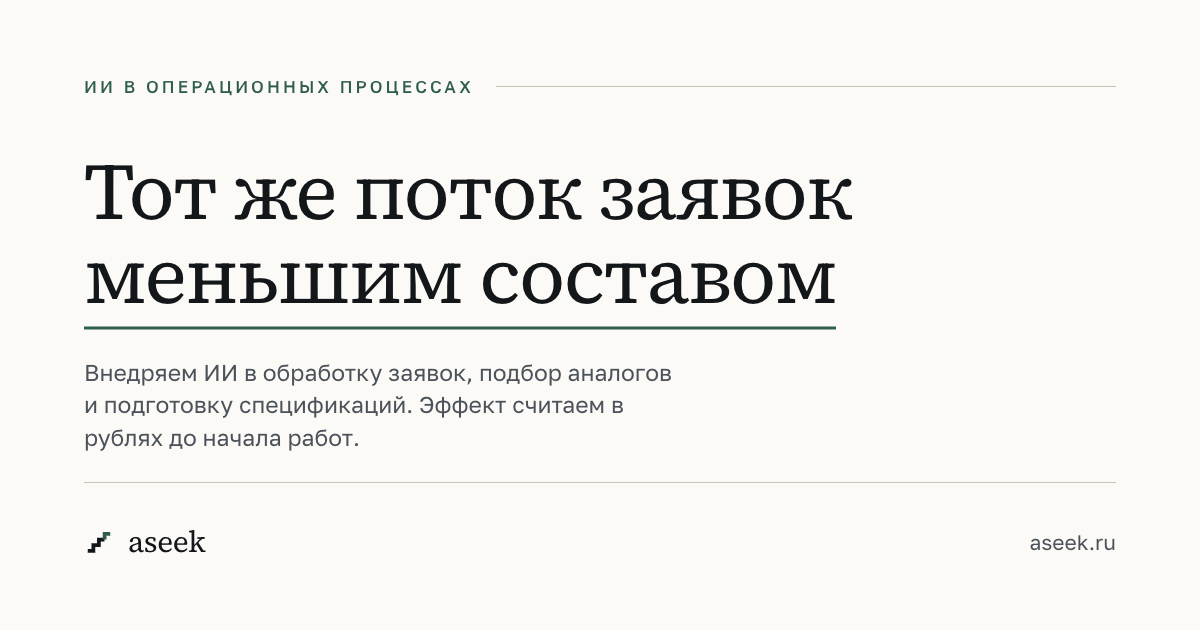
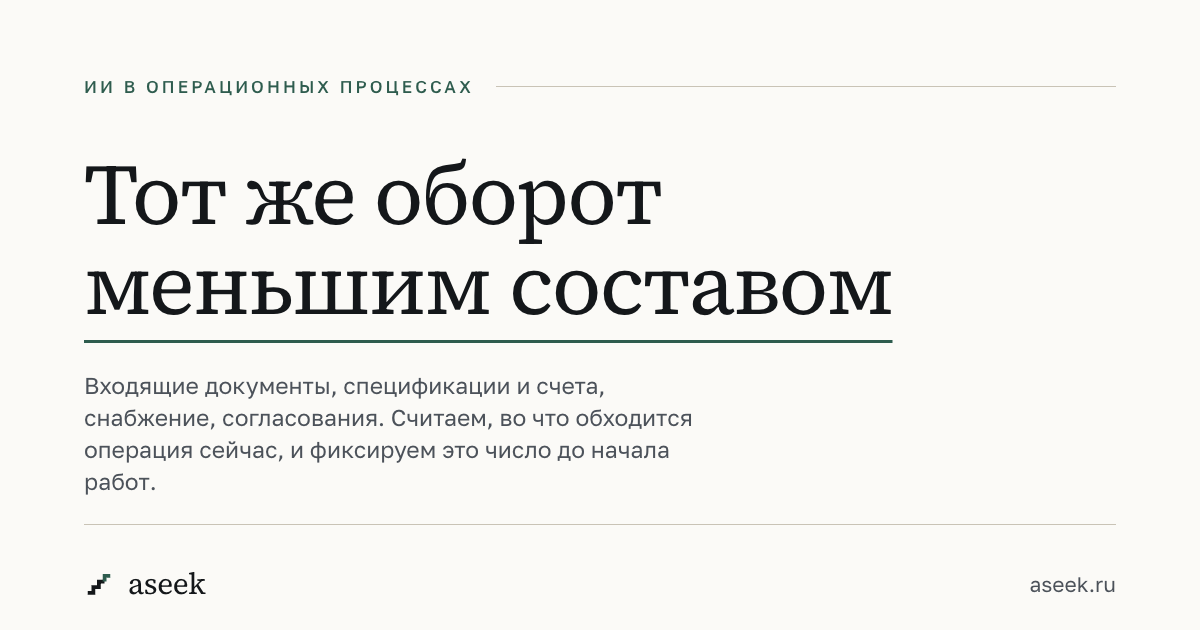
Снято обещание доступа в 1С, предмет расширен до операционных процессов
«Встраиваем в 1С» убрано: доступа в боевую учётную систему внешнему
подрядчику на первом проекте не дают, и обещание разваливается на первой
встрече. Работа названа там, где она есть, — на входе в учёт: почта,
мессенджеры, таблицы, CRM. Готовый документ принимает специалист заказчика
штатным обменом.

«Эффект считаем в рублях до начала работ» заменено на замер текущего
значения: прогноз до старта иногда будет мимо, замер по данным заказчика —
нет. Цель по-прежнему видна в отчёте по схеме «До / Сейчас / Цель».

Заголовок «Тот же поток заявок» → «Тот же оборот»: заявки это один участок,
операционные процессы шире. Перечисление под заголовком даёт конкретность.

«Не доходит до 1С» → «не заведена нигде: ни в CRM, ни в учёте».

og.png перерисован под новый заголовок.

diff --git a/index.html b/index.html
@@ -4,7 +4,7 @@
 <meta charset="utf-8" />
 <meta name="viewport" content="width=device-width, initial-scale=1" />
 <title>aseek — ИИ в операционных процессах</title>
-<meta name="description" content="Внедряем ИИ в обработку заявок, подбор аналогов и подготовку спецификаций. Встраиваем в 1С. Эффект считаем в рублях до начала работ. Диагностика от 600 000 ₽." />
+<meta name="description" content="Внедряем ИИ в операционные процессы: входящие документы, спецификации и счета, снабжение, согласования. Считаем, во что обходится операция сейчас, и фиксируем это число до начала работ. Диагностика от 600 000 ₽." />
 <meta name="color-scheme" content="light" />
 <link rel="icon" href="favicon.svg" type="image/svg+xml" />
 <link rel="icon" href="favicon.ico" sizes="32x32" />
@@ -16,8 +16,8 @@
 <meta property="og:locale" content="ru_RU" />
 <meta property="og:url" content="https://aseek.ru/" />
 <meta property="og:site_name" content="aseek" />
-<meta property="og:title" content="Тот же поток заявок меньшим составом" />
-<meta property="og:description" content="Внедряем ИИ в обработку заявок, подбор аналогов и подготовку спецификаций. Эффект считаем в рублях до начала работ — чтобы решение принималось по числам, а не по обещаниям." />
+<meta property="og:title" content="Тот же оборот меньшим составом" />
+<meta property="og:description" content="Внедряем ИИ в операционные процессы: входящие документы, спецификации и счета, снабжение, согласования. Считаем, во что обходится операция сейчас, и фиксируем это число до начала работ." />
 <meta property="og:image" content="https://aseek.ru/og.png" />
 <meta property="og:image:width" content="1200" />
 <meta property="og:image:height" content="630" />
@@ -143,14 +143,15 @@
           <p style="font-size: 12px; letter-spacing: 0.18em; text-transform: uppercase; color: #2E5C4E; white-space: nowrap;">ИИ в операционных процессах</p>
           <span data-reveal="line" style="display: block; flex: 1 1 auto; height: 1px; background: #C9C3B6;"></span>
         </div>
-        <h1 data-reveal style="font-size: clamp(36px, 7.4vw, 90px); line-height: 1.06; letter-spacing: -0.022em; max-width: 14em; text-wrap: pretty;">Тот же поток заявок <span style="position: relative; display: inline-block;">меньшим составом<span data-reveal="line" style="position: absolute; left: 0; right: 0; bottom: -0.06em; height: 2px; background: #2E5C4E;"></span></span></h1>
+        <h1 data-reveal style="font-size: clamp(36px, 7.4vw, 90px); line-height: 1.06; letter-spacing: -0.022em; max-width: 14em; text-wrap: pretty;">Тот же оборот <span style="position: relative; display: inline-block;">меньшим составом<span data-reveal="line" style="position: absolute; left: 0; right: 0; bottom: -0.06em; height: 2px; background: #2E5C4E;"></span></span></h1>
         <div style="display: flex; flex-wrap: wrap; gap: clamp(26px, 5vw, 88px); margin-top: clamp(34px, 6vw, 72px);">
           <div data-reveal style="flex: 5 1 320px; max-width: 31em;">
-            <p style="font-size: clamp(18px, 2.2vw, 25px); line-height: 1.44; letter-spacing: -0.005em; color: #232830; text-wrap: pretty;">Внедряем ИИ в обработку заявок, подбор аналогов и подготовку спецификаций. Встраиваем в 1С и в то, чем люди уже пользуются.</p>
-            <p style="margin-top: clamp(16px, 2.4vw, 24px); font-size: clamp(17px, 1.9vw, 20px); line-height: 1.47; color: #4C525A; text-wrap: pretty;">Эффект считаем в рублях до начала работ — чтобы решение принималось по числам, а не по обещаниям.</p>
+            <p style="font-size: clamp(18px, 2.2vw, 25px); line-height: 1.44; letter-spacing: -0.005em; color: #232830; text-wrap: pretty;">Внедряем ИИ в операционные процессы: разбор входящих документов, подготовка спецификаций и счетов, снабжение, согласования, переписка с клиентами.</p>
+            <p style="margin-top: clamp(16px, 2.4vw, 24px); font-size: clamp(17px, 1.9vw, 20px); line-height: 1.47; color: #4C525A; text-wrap: pretty;">Считаем, во что операция обходится сейчас, и фиксируем это число до начала работ. Дальше каждый месяц видно, куда оно сдвинулось.</p>
           </div>
           <div data-reveal style="flex: 2 1 230px; max-width: 22em; align-self: flex-end;">
-            <p style="font-size: 15px; line-height: 1.45; color: #4C525A; border-top: 1px solid #C9C3B6; padding-top: 14px;">Для оптовых, дистрибуторских и производственных компаний с потоком заявок и учётом в 1С.</p>
+            <p style="font-size: 15px; line-height: 1.45; color: #4C525A; border-top: 1px solid #C9C3B6; padding-top: 14px;">Для оптовых, дистрибуторских и производственных компаний с потоком заявок, документов и согласований.</p>
+            <p style="margin-top: 14px; font-size: 15px; line-height: 1.45; color: #4C525A;">Работаем на входе: почта, мессенджеры, таблицы, CRM. Переделывать учётную систему не требуется.</p>
             <p style="margin-top: 14px; font-size: 15px; line-height: 1.45; color: #4C525A;">С вами будет разговаривать тот, кто потом будет разбирать ваш процесс руками.</p>
           </div>
         </div>
@@ -203,11 +204,11 @@
         <li data-reveal data-pair style="display: grid; grid-template-columns: 1fr 1fr; gap: clamp(24px, 5vw, 72px); border-top: 1px solid #E4DFD4; padding-top: clamp(26px, 4vw, 44px);">
           <div>
             <p style="font-size: 11px; letter-spacing: 0.14em; text-transform: uppercase; color: #8A8578; margin-bottom: 12px;">Сегодня</p>
-            <p data-mobile-full style="max-width: 22em; font-size: clamp(17px, 1.9vw, 20px); line-height: 1.45; color: #6B7078; text-wrap: pretty;">Часть заявок не доходит до 1С вообще и живёт в переписке до самой отгрузки.</p>
+            <p data-mobile-full style="max-width: 22em; font-size: clamp(17px, 1.9vw, 20px); line-height: 1.45; color: #6B7078; text-wrap: pretty;">Часть заявок не заведена нигде: ни в CRM, ни в учёте. Живёт в переписке до самой отгрузки.</p>
           </div>
           <div data-then>
             <p style="font-size: 11px; letter-spacing: 0.14em; text-transform: uppercase; color: #2E5C4E; margin-bottom: 12px;">Через полгода</p>
-            <p data-mobile-full style="max-width: 22em; font-size: clamp(19px, 2.3vw, 26px); line-height: 1.32; letter-spacing: -0.008em; color: #14171A; text-wrap: pretty;">Каждая заявка есть в 1С в день поступления. В переписке не остаётся ничего.</p>
+            <p data-mobile-full style="max-width: 22em; font-size: clamp(19px, 2.3vw, 26px); line-height: 1.32; letter-spacing: -0.008em; color: #14171A; text-wrap: pretty;">Каждая заявка заведена в день поступления. В переписке не остаётся ничего.</p>
           </div>
         </li>
       </ol>
@@ -329,7 +330,7 @@
             </div>
             <h3 style="flex: 2 1 190px; max-width: 9em; font-size: clamp(23px, 2.8vw, 33px); line-height: 1.16; letter-spacing: -0.015em;">Диагностика</h3>
             <div style="flex: 4 1 300px; max-width: 32em;">
-              <p style="font-size: clamp(16px, 1.75vw, 18px); line-height: 1.5; color: #232830; text-wrap: pretty;">Разбираем поток заявок по шагам, считаем цену операции и выбираем показатель, по которому будем мерить. На выходе — что трогать, в каком порядке и чего делать не нужно.</p>
+              <p style="font-size: clamp(16px, 1.75vw, 18px); line-height: 1.5; color: #232830; text-wrap: pretty;">Разбираем процесс по шагам, считаем, во что обходится одна операция, и выбираем показатель, по которому будем мерить. На выходе — что трогать, в каком порядке и чего делать не нужно.</p>
               <p style="margin-top: 14px; font-size: 15px; color: #4C525A; font-variant-numeric: tabular-nums;">от 600 000 ₽ · обычно 3–4 недели</p>
             </div>
           </div>
@@ -355,8 +356,8 @@
             </div>
             <h3 style="flex: 2 1 190px; max-width: 9em; font-size: clamp(23px, 2.8vw, 33px); line-height: 1.16; letter-spacing: -0.015em;">Внедрение</h3>
             <div style="flex: 4 1 300px; max-width: 32em;">
-              <p style="font-size: clamp(16px, 1.75vw, 18px); line-height: 1.5; color: #232830; text-wrap: pretty;">Разбор писем и вложений, распознавание заявок-фотографий, подбор аналогов по истории продаж, сборка спецификации, обмен с 1С — разворачивается на весь участок вместе с регламентом и обучением тех, кто работает с этим каждый день.</p>
-              <p style="margin-top: 14px; font-size: 15px; color: #4C525A;">Собираем на том, что у вас уже стоит, если процесс стандартный. Пишем отдельно, если процесс и есть ваше отличие от конкурентов</p>
+              <p style="font-size: clamp(16px, 1.75vw, 18px); line-height: 1.5; color: #232830; text-wrap: pretty;">Разбор писем и вложений, распознавание заявок-фотографий, подбор аналогов по истории продаж, сборка спецификации и счёта, передача готового документа в учётную систему — разворачивается на весь участок вместе с регламентом и обучением тех, кто работает с этим каждый день.</p>
+              <p style="margin-top: 14px; font-size: 15px; color: #4C525A;">Собираем на том, что у вас уже стоит, если процесс стандартный. Пишем отдельно, если процесс и есть ваше отличие от конкурентов. Доступ в боевую учётную систему для этого не нужен: готовый документ принимает ваш специалист штатным обменом</p>
             </div>
           </div>
         </li>
